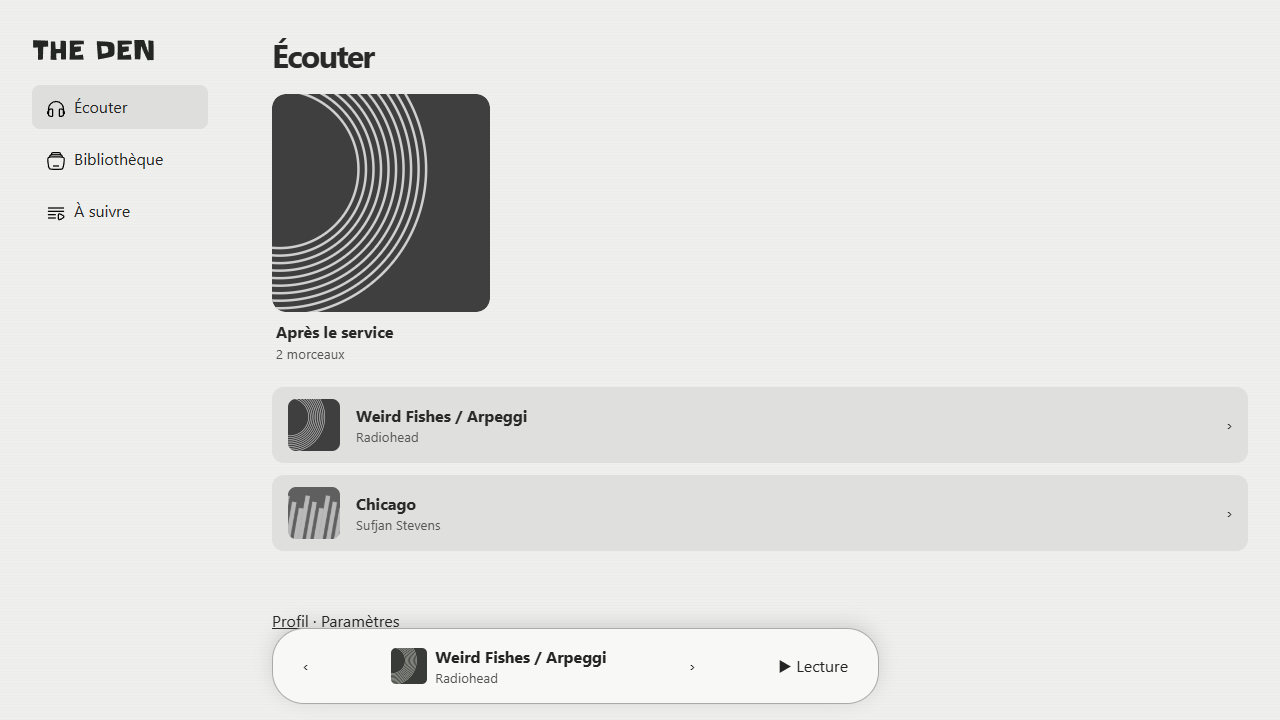
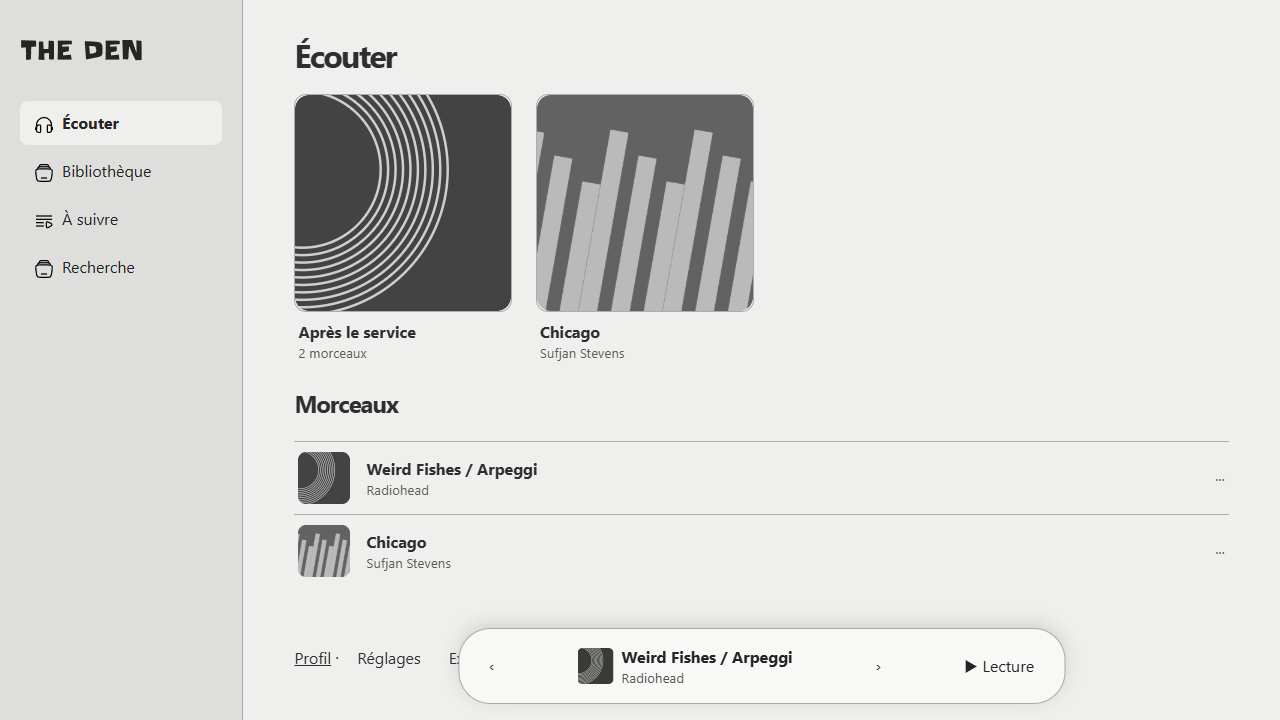
Shape The Den library around paper navigation and browsable music categories

diff --git a/src/TheDen.jsx b/src/TheDen.jsx
@@ -8,6 +8,7 @@ const sections = ["Écouter", "Bibliothèque", "À suivre", "Recherche"];
 
 export default function TheDen() {
   const [section, setSection] = useState("Écouter");
+  const [libraryTab, setLibraryTab] = useState("Playlists");
   const [query, setQuery] = useState("");
   const [preview, setPreview] = useState(0);
   const [playing, setPlaying] = useState(null);
@@ -142,20 +143,55 @@ export default function TheDen() {
             onChange={(e) => setQuery(e.target.value)}
           />
         </header>
-        {["Écouter", "Bibliothèque"].includes(section) && !query && (
-          <section className="collections" aria-label="Collections">
-            {["Après le service", "Chicago"].map((title, i) => (
+        {section === "Bibliothèque" && (
+          <div
+            className="library-switch"
+            role="group"
+            aria-label="Parcourir la bibliothèque"
+          >
+            {["Playlists", "Artistes", "Morceaux"].map((tab) => (
               <button
-                key={title}
-                onClick={() => (i ? openTrack(i) : go("Après le service"))}
+                key={tab}
+                aria-pressed={libraryTab === tab}
+                onClick={() => {
+                  setLibraryTab(tab);
+                  setQuery("");
+                }}
               >
-                <img src={"/den-" + i + ".svg"} alt="" />
-                <strong>{title}</strong>
-                <small>{i ? "Sufjan Stevens" : "2 morceaux"}</small>
+                {tab}
+              </button>
+            ))}
+          </div>
+        )}
+        {section === "Bibliothèque" && libraryTab === "Artistes" && !query && (
+          <section className="artist-list" aria-label="Artistes">
+            {tracks.map((item, i) => (
+              <button key={item.id} onClick={() => setQuery(item.artist)}>
+                <img src={"/den-track-" + i + ".png"} alt="" />
+                <strong>{item.artist}</strong>
               </button>
             ))}
           </section>
         )}
+        {(section === "Écouter" ||
+          (section === "Bibliothèque" && libraryTab === "Playlists")) &&
+          !query && (
+            <section className="collections" aria-label="Collections">
+              {(section === "Bibliothèque"
+                ? ["Après le service"]
+                : ["Après le service", "Chicago"]
+              ).map((title, i) => (
+                <button
+                  key={title}
+                  onClick={() => (i ? openTrack(i) : go("Après le service"))}
+                >
+                  <img src={"/den-" + i + ".svg"} alt="" />
+                  <strong>{title}</strong>
+                  <small>{i ? "Sufjan Stevens" : "2 morceaux"}</small>
+                </button>
+              ))}
+            </section>
+          )}
         {menu ? (
           <MenuPage
             page={section}
@@ -181,7 +217,12 @@ export default function TheDen() {
             </div>
           </section>
         ) : (
-          <section aria-label="Liste des morceaux">
+          <section
+            hidden={
+              section === "Bibliothèque" && libraryTab !== "Morceaux" && !query
+            }
+            aria-label="Liste des morceaux"
+          >
             {notice && <p role="status">{notice}</p>}
             <h2>{section === "À suivre" ? "File de lecture" : "Morceaux"}</h2>
             {results.map((i, position) => (
@@ -195,7 +236,13 @@ export default function TheDen() {
                   <b>{tracks[i].title}</b>
                   <small>{tracks[i].artist}</small>
                 </span>
-                <span aria-hidden="true">›</span>
+                <span className="track-end">
+                  {playing === i && audible ? (
+                    "En lecture"
+                  ) : (
+                    <span aria-hidden="true">···</span>
+                  )}
+                </span>
               </button>
             ))}
             {!results.length && <p role="status">Aucun morceau trouvé.</p>}

diff --git a/src/styles/materials.css b/src/styles/materials.css
@@ -233,3 +233,117 @@ a {
 .video-controls input {
   vertical-align: middle;
 }
+/* Library shell: paper surfaces, ink selected states and an independent transport. */
+.library-switch {
+  display: inline-flex;
+  gap: 4px;
+  padding: 4px;
+  margin-block: 20px;
+  background: var(--wash);
+  border-radius: 12px;
+}
+.library-switch button[aria-pressed="true"] {
+  background: var(--dock);
+  box-shadow: 0 1px 3px #0002;
+}
+.artist-list {
+  display: flex;
+  gap: 24px;
+  margin-block: 16px 32px;
+}
+.artist-list img {
+  display: block;
+  width: clamp(80px, 11vw, 144px);
+  aspect-ratio: 1;
+  object-fit: cover;
+  border-radius: 50%;
+  margin: 0 auto 8px;
+}
+.den .collections {
+  gap: 24px;
+}
+.den .collections button {
+  display: block;
+}
+.den .collections img {
+  border: 1px solid var(--line);
+}
+.den .track {
+  border-radius: 0;
+  background: transparent;
+  border-top: 1px solid var(--line);
+  margin: 0;
+  padding: 10px 4px;
+}
+.den .track:hover,
+.den .track:focus-visible {
+  background: var(--wash);
+}
+.track-end {
+  font-size: 0.9rem;
+  color: var(--quiet);
+}
+@media (min-width: 701px) {
+  .den {
+    display: grid;
+    grid-template-columns: clamp(200px, 19vw, 270px) minmax(0, 1fr);
+    padding: 0;
+    align-items: start;
+  }
+  .den .rail {
+    position: sticky;
+    top: 0;
+    display: block;
+    padding: 32px 20px;
+    height: 100dvh;
+    border-right: 1px solid var(--line);
+    background: var(--wash);
+  }
+  .den .rail nav {
+    display: grid;
+    gap: 4px;
+    border: 0;
+    border-radius: 0;
+    padding: 0;
+    margin: 32px 0;
+    width: auto;
+    background: transparent;
+  }
+  .den .rail nav button {
+    display: block;
+    text-align: left;
+  }
+  .den .rail nav button[aria-current="page"] {
+    background: var(--paper);
+    font-weight: 700;
+  }
+  .den main {
+    padding: 32px clamp(24px, 4vw, 72px) 260px;
+  }
+  .den .collections button + button {
+    display: block;
+  }
+  .den .collections button {
+    width: clamp(160px, 17vw, 240px);
+  }
+  .den[data-section="Écouter"] section[aria-label="Liste des morceaux"] h2 {
+    display: block;
+  }
+  .den .rest {
+    left: calc(50% + clamp(100px, 9.5vw, 135px));
+    transform: translateX(-50%);
+    max-width: calc(100% - 300px);
+  }
+}
+@media (max-width: 700px) {
+  .den .collections {
+    gap: 16px;
+  }
+  .library-switch button {
+    padding-inline: 10px;
+  }
+  .den .rail nav button[aria-current="page"] {
+    font-weight: 700;
+    background: var(--wash);
+  }
+}
